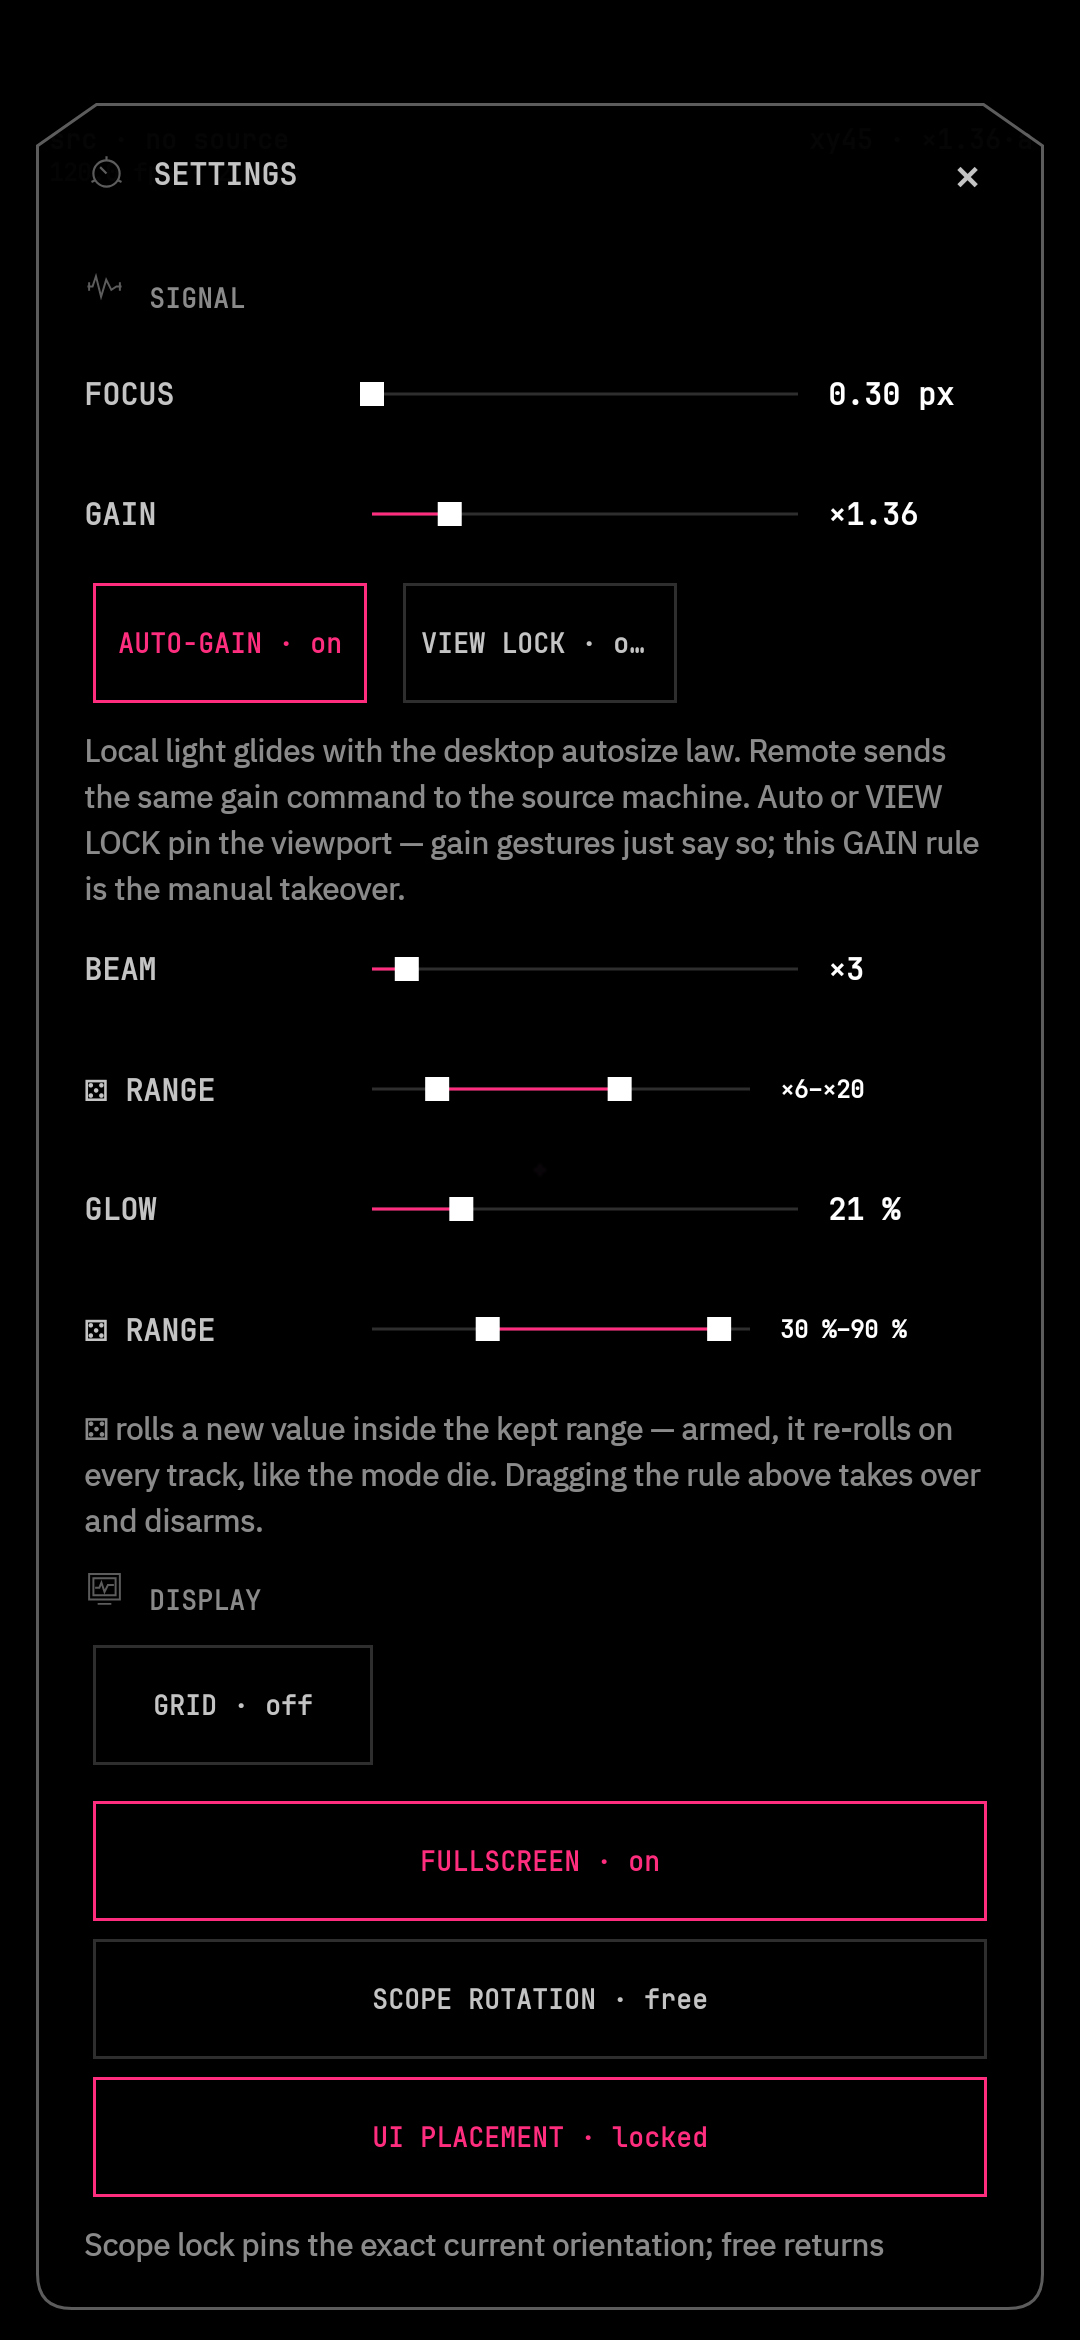
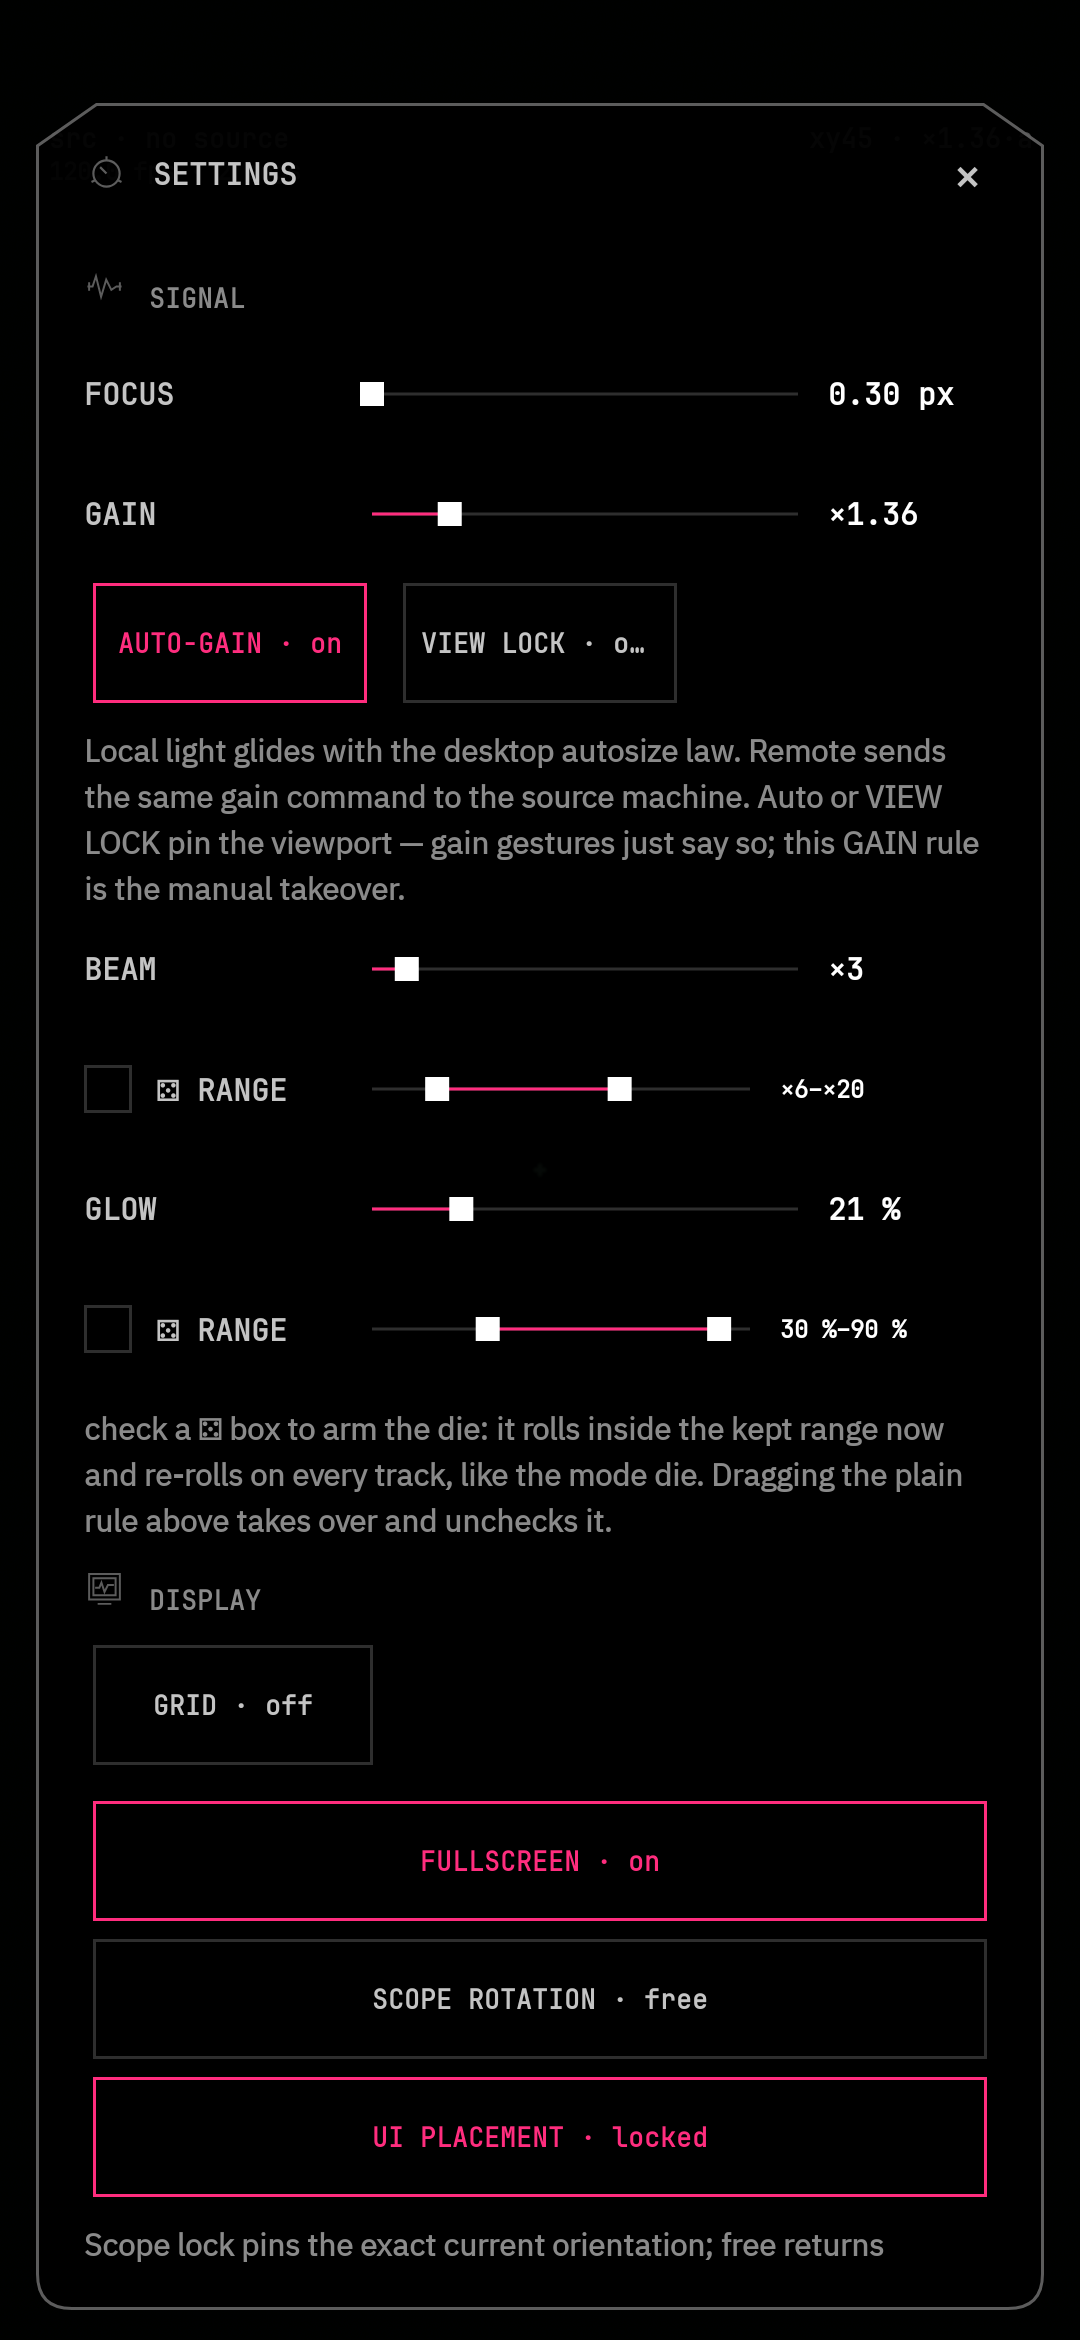
sync from private tree 1292c5f

Changed region(s): [[0.0611, 0.5615, 0.8861, 0.6551], [0.0917, 0.4368, 0.2444, 0.4679]]

diff --git a/app/src/main/kotlin/dev/phosphor/mobil3/ui/Sheets.kt b/app/src/main/kotlin/dev/phosphor/mobil3/ui/Sheets.kt
@@ -435,8 +435,8 @@ fun DragRule(
 }
 
 // Two-thumb sibling of DragRule: drag scrubs the NEAREST square handle, the accent
-// hairline spans the kept [lo, hi] sub-range. The label cell is the ⚄ arming surface —
-// tappable, accent-lit while armed.
+// hairline spans the kept [lo, hi] sub-range. A real checkbox leads the row — the
+// visible arm/disarm toggle for the ⚄ behavior (checked = armed, re-rolls per track).
 @Composable
 fun RangeDragRule(
     label: String,
@@ -455,14 +455,24 @@ fun RangeDragRule(
         Modifier.fillMaxWidth().padding(vertical = 6.dp),
         verticalAlignment = Alignment.CenterVertically,
     ) {
-        Mono(
-            label,
-            if (armed) p.accent else p.ink2,
-            Type.data,
+        Row(
             Modifier.width(96.dp).then(
                 if (onLabelTap != null) Modifier.clickable { onLabelTap() } else Modifier
             ),
-        )
+            verticalAlignment = Alignment.CenterVertically,
+        ) {
+            Box(
+                Modifier
+                    .size(16.dp)
+                    .border(Dim.hairline, if (armed) p.accent else p.line)
+                    .padding(4.dp)
+                    .then(Modifier.drawBehind {
+                        if (armed) drawRect(p.accent)
+                    }),
+            )
+            Spacer(Modifier.width(8.dp))
+            Mono(label, if (armed) p.accent else p.ink2, Type.data)
+        }
         Box(
             Modifier
                 .weight(1f)
@@ -1027,8 +1037,9 @@ fun SettingsSheet(
                 format = { "%.0f %%".format(it * 100) },
             ) { lo, hi -> actions.setGlowRandomRange(lo, hi) }
             Prose(
-                "⚄ rolls a new value inside the kept range — armed, it re-rolls on every " +
-                    "track, like the mode die. Dragging the rule above takes over and disarms.",
+                "check a ⚄ box to arm the die: it rolls inside the kept range now and " +
+                    "re-rolls on every track, like the mode die. Dragging the plain rule " +
+                    "above takes over and unchecks it.",
                 p.muted, modifier = Modifier.padding(top = 6.dp),
             )
         }